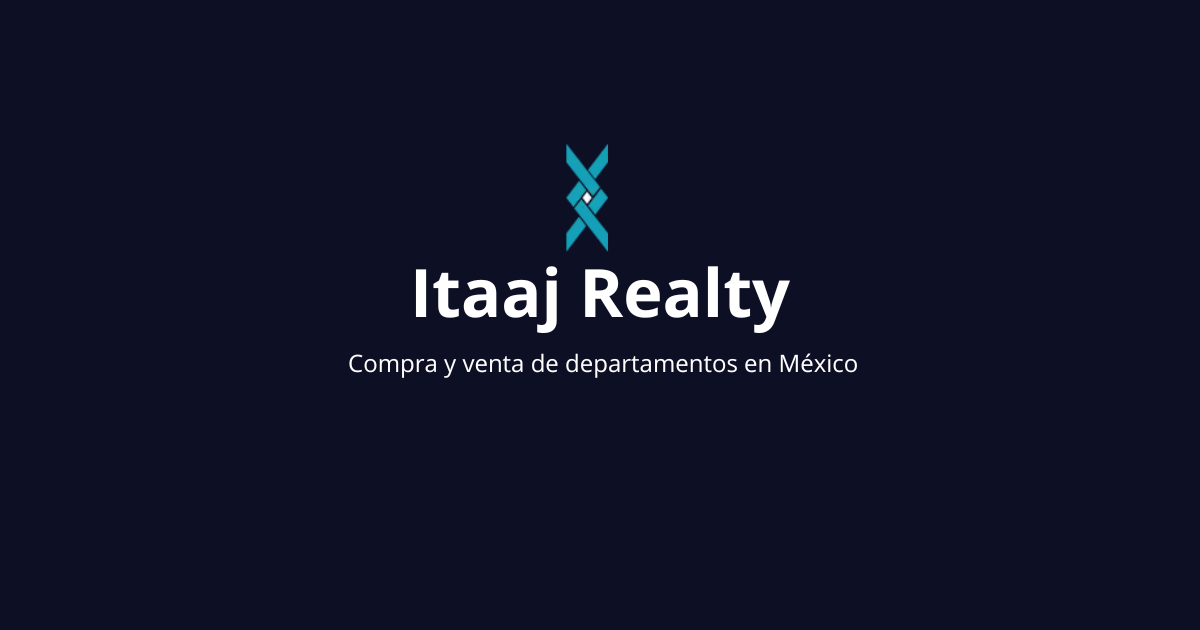
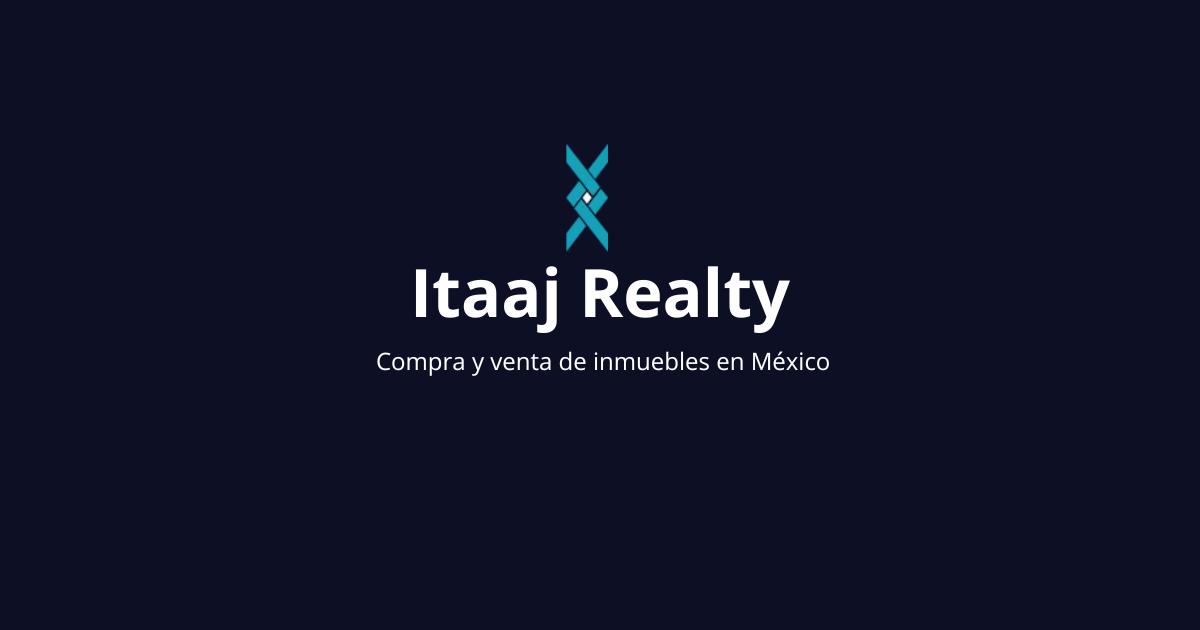
chore: finished

Changed region(s): [[0.2775, 0.5429, 0.7092, 0.6032]]

diff --git a/apps/realty/src/app/layout.tsx b/apps/realty/src/app/layout.tsx
@@ -6,8 +6,11 @@ import { Inter } from 'next/font/google'
 const inter = Inter({ subsets: ['latin'] })
 
 export const metadata: Metadata = {
-  title: 'Itaaj Realty: compra y venta de departamentos',
+  metadataBase: new URL("https://itaajrealty.com"),
+  title: 'Itaaj Realty: compra y venta de inmebles en México',
   description: 'Más de 1.500.000 departamentos en venta, casas y oficinas nuevos o de segunda mano. Vende o compra tu departamento o casa en Itaaj Realty completamente GRATIS!"',
+  applicationName: "Itaaj Realty",
+  keywords: ["Inmuebles", "Propiedades", "Departamentos", "Casas", "Lofts"]
 }
 
 export default function RootLayout({
